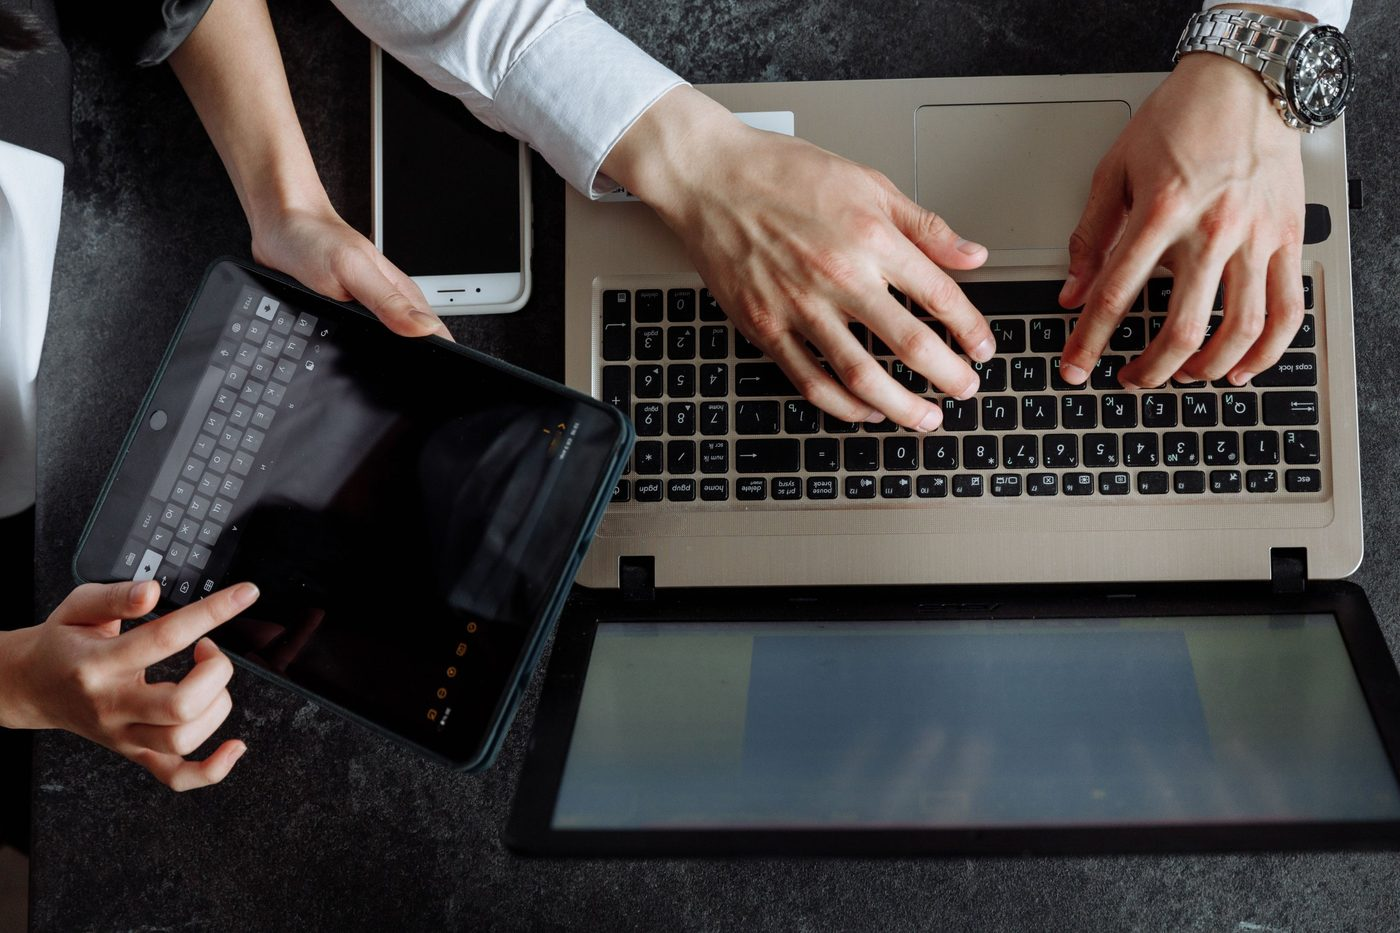
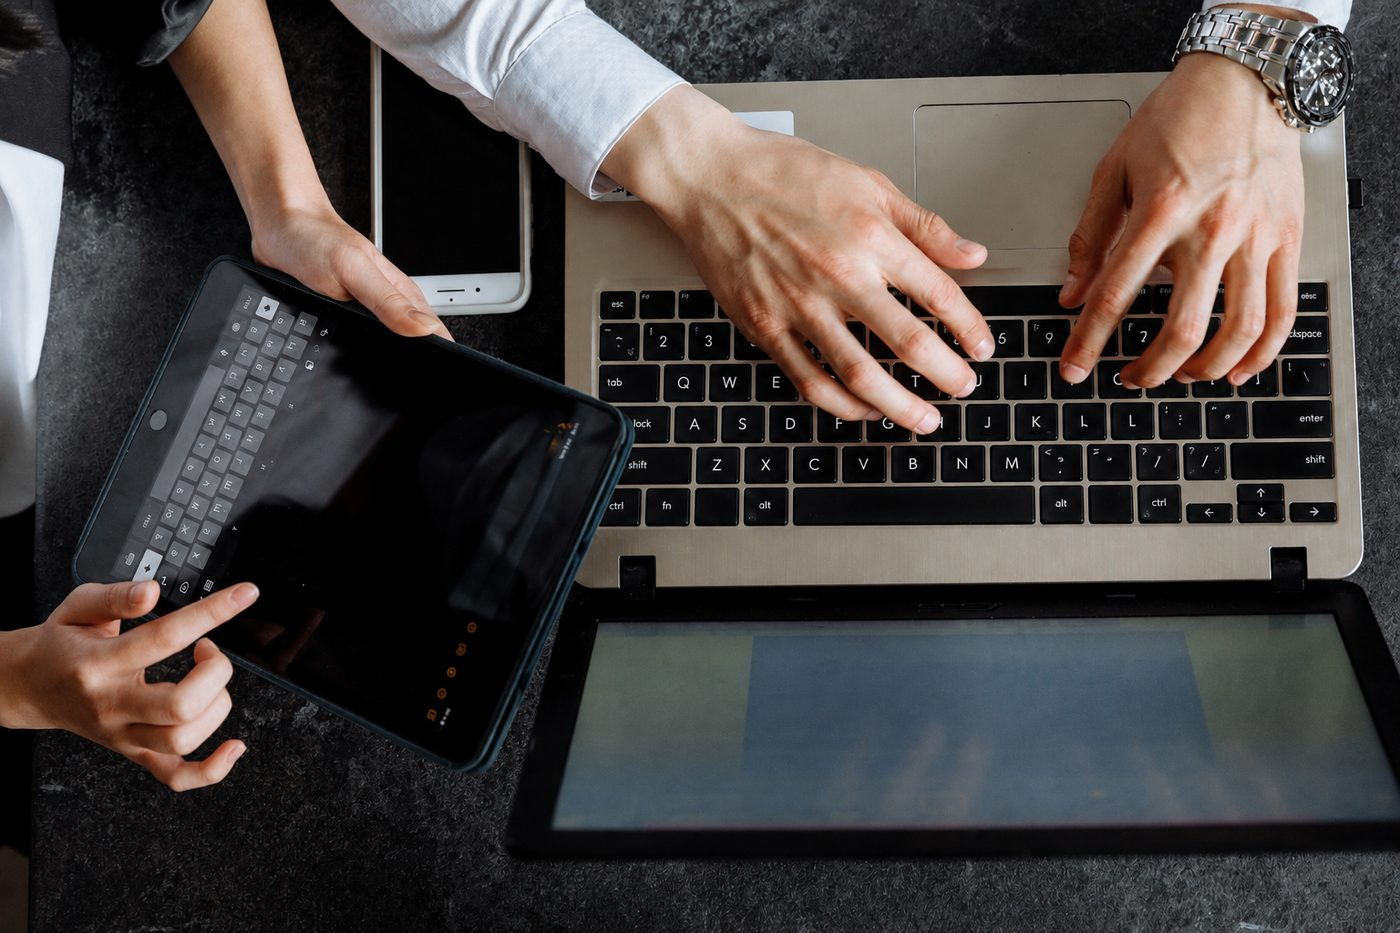
Add files via upload

diff --git a/index.html b/index.html
@@ -103,20 +103,6 @@
           </div>
         </div>
         <div class="header-right">
-          <div class="header-utils">
-            <ul>
-              <li class="button">
-                <a href="contact.html" class="btnset btnset-primary btnset-sm" type="button">견적문의</a>
-              </li>
-              <li class="allmenu">
-                <button class="btn-allmenu">
-                  <i class="ico-hamburger"></i>
-                  <i class="ico-hamburger"></i>
-                  <i class="ico-hamburger"></i>
-                </button>
-              </li>
-            </ul>
-          </div>
           <button class="btn-momenu">
             <i class="ico-hamburger"></i>
             <i class="ico-hamburger"></i>
@@ -251,19 +237,24 @@
           </div>
           <div class="why-preview-grid">
             <div class="why-preview-card reveal-up">
-              <img src="./resources/icons_custom/ico_cert.svg" alt="KS 난연 인증" />
-              <strong class="h5">KS · 난연 인증 자재</strong>
-              <p class="p2">KS 규격, 소방청 난연 2급 이상 인증을 확인한 자재만 선별 공급</p>
+              <img src="./resources/icons_custom/ico_cert.svg" alt="안정적인 품질과 인증" />
+              <strong class="h5">안정적인 품질과 인증</strong>
+              <p class="p2">하자율이 매우 낮은 뛰어난 품질과, 현장의 안전 기준을 충족하는 제품</p>
             </div>
             <div class="why-preview-card reveal-up">
-              <img src="./resources/icons_custom/ico_test.svg" alt="품질시험" />
-              <strong class="h5">입고 전수 품질시험</strong>
-              <p class="p2">자체 시험실에서 입고 전 품질시험을 거치고 성적서를 즉시 발급</p>
+              <img src="./resources/icons_custom/ico_price.svg" alt="합리적인 공급가" />
+              <strong class="h5">합리적인 공급가</strong>
+              <p class="p2">오랜 거래처와의 신뢰를 바탕으로 안정적인 매입 단가를 합리적인 공급가로 연결</p>
             </div>
             <div class="why-preview-card reveal-up">
-              <img src="./resources/icons_custom/ico_truck.svg" alt="전국 배송" />
-              <strong class="h5">전국 현장 직납</strong>
-              <p class="p2">대량 납품부터 긴급 소량 요청까지 전국 현장에 직접 배송</p>
+              <img src="./resources/icons_custom/ico_pipe.svg" alt="다양한 규격 보유" />
+              <strong class="h5">다양한 규격 보유</strong>
+              <p class="p2">다양한 규격을 취급하며, 현장에 필요한 규격을 폭넓게 상시 재고로 보유</p>
+            </div>
+            <div class="why-preview-card reveal-up">
+              <img src="./resources/icons_custom/ico_truck.svg" alt="전국 현장 납품" />
+              <strong class="h5">전국 현장 납품</strong>
+              <p class="p2">서울·대전·대구·부산 등 다양한 현장에 대량 납품부터 긴급 소량 요청까지 전국 현장에 납품</p>
             </div>
           </div>
           <div class="why-preview-more">

diff --git a/contact.html b/contact.html
@@ -103,20 +103,6 @@
           </div>
         </div>
         <div class="header-right">
-          <div class="header-utils">
-            <ul>
-              <li class="button">
-                <a href="contact.html" class="btnset btnset-primary btnset-sm" type="button">견적문의</a>
-              </li>
-              <li class="allmenu">
-                <button class="btn-allmenu">
-                  <i class="ico-hamburger"></i>
-                  <i class="ico-hamburger"></i>
-                  <i class="ico-hamburger"></i>
-                </button>
-              </li>
-            </ul>
-          </div>
           <button class="btn-momenu">
             <i class="ico-hamburger"></i>
             <i class="ico-hamburger"></i>
@@ -264,16 +250,10 @@
                   <div class="contact-direct-card">
                     <span class="cd-label mono">EMAIL</span>
                     <strong class="h4">isamwon@naver.com</strong>
-                    <span class="cd-sub">견적·자재 문의</span>
+                    <span class="cd-sub">자재 문의</span>
                   </div>
                 </div>
                 <p class="contact-direct-note">위 전화 또는 이메일로 직접 연락 주시면 신속히 답변드리겠습니다.</p>
-              </div>
-            </div>
-            <div class="location-extra">
-              <div class="location-extra-item">
-                <strong class="h5">방문 전 확인해주세요</strong>
-                <p class="p1">방문 전에 전화 또는 이메일로 일정을 조율해 주시기를 부탁드립니다.</p>
               </div>
             </div>
           </div>

diff --git a/products-cd.html b/products-cd.html
@@ -103,20 +103,6 @@
           </div>
         </div>
         <div class="header-right">
-          <div class="header-utils">
-            <ul>
-              <li class="button">
-                <a href="contact.html" class="btnset btnset-primary btnset-sm" type="button">견적문의</a>
-              </li>
-              <li class="allmenu">
-                <button class="btn-allmenu">
-                  <i class="ico-hamburger"></i>
-                  <i class="ico-hamburger"></i>
-                  <i class="ico-hamburger"></i>
-                </button>
-              </li>
-            </ul>
-          </div>
           <button class="btn-momenu">
             <i class="ico-hamburger"></i>
             <i class="ico-hamburger"></i>
@@ -321,7 +307,7 @@
                 </tbody>
               </table>
             </div>
-            <p class="spec-table-note">표에 없는 규격·품목은 <a href="contact.html#contact-section">견적 문의</a>를 통해 확인해 주세요.</p>
+            <p class="spec-table-note">표에 없는 규격·품목은 <a href="contact.html#contact-section">문의하기</a>를 통해 확인해 주세요.</p>
           </div>
         </div>
       </section>

diff --git a/products-elp.html b/products-elp.html
@@ -103,20 +103,6 @@
           </div>
         </div>
         <div class="header-right">
-          <div class="header-utils">
-            <ul>
-              <li class="button">
-                <a href="contact.html" class="btnset btnset-primary btnset-sm" type="button">견적문의</a>
-              </li>
-              <li class="allmenu">
-                <button class="btn-allmenu">
-                  <i class="ico-hamburger"></i>
-                  <i class="ico-hamburger"></i>
-                  <i class="ico-hamburger"></i>
-                </button>
-              </li>
-            </ul>
-          </div>
           <button class="btn-momenu">
             <i class="ico-hamburger"></i>
             <i class="ico-hamburger"></i>
@@ -301,7 +287,7 @@
                 </tbody>
               </table>
             </div>
-            <p class="spec-table-note">표에 없는 규격·품목은 <a href="contact.html#contact-section">견적 문의</a>를 통해 확인해 주세요.</p>
+            <p class="spec-table-note">표에 없는 규격·품목은 <a href="contact.html#contact-section">문의하기</a>를 통해 확인해 주세요.</p>
           </div>
         </div>
       </section>

diff --git a/products-etc.html b/products-etc.html
@@ -103,20 +103,6 @@
           </div>
         </div>
         <div class="header-right">
-          <div class="header-utils">
-            <ul>
-              <li class="button">
-                <a href="contact.html" class="btnset btnset-primary btnset-sm" type="button">견적문의</a>
-              </li>
-              <li class="allmenu">
-                <button class="btn-allmenu">
-                  <i class="ico-hamburger"></i>
-                  <i class="ico-hamburger"></i>
-                  <i class="ico-hamburger"></i>
-                </button>
-              </li>
-            </ul>
-          </div>
           <button class="btn-momenu">
             <i class="ico-hamburger"></i>
             <i class="ico-hamburger"></i>
@@ -281,7 +267,7 @@
                 </tbody>
               </table>
             </div>
-            <p class="spec-table-note">표에 없는 규격·품목은 <a href="contact.html#contact-section">견적 문의</a>를 통해 확인해 주세요.</p>
+            <p class="spec-table-note">표에 없는 규격·품목은 <a href="contact.html#contact-section">문의하기</a>를 통해 확인해 주세요.</p>
           </div>
         </div>
       </section>

diff --git a/products-hi.html b/products-hi.html
@@ -103,20 +103,6 @@
           </div>
         </div>
         <div class="header-right">
-          <div class="header-utils">
-            <ul>
-              <li class="button">
-                <a href="contact.html" class="btnset btnset-primary btnset-sm" type="button">견적문의</a>
-              </li>
-              <li class="allmenu">
-                <button class="btn-allmenu">
-                  <i class="ico-hamburger"></i>
-                  <i class="ico-hamburger"></i>
-                  <i class="ico-hamburger"></i>
-                </button>
-              </li>
-            </ul>
-          </div>
           <button class="btn-momenu">
             <i class="ico-hamburger"></i>
             <i class="ico-hamburger"></i>
@@ -291,7 +277,7 @@
                 </tbody>
               </table>
             </div>
-            <p class="spec-table-note">표에 없는 규격·품목은 <a href="contact.html#contact-section">견적 문의</a>를 통해 확인해 주세요.</p>
+            <p class="spec-table-note">표에 없는 규격·품목은 <a href="contact.html#contact-section">문의하기</a>를 통해 확인해 주세요.</p>
           </div>
         </div>
       </section>

diff --git a/products-waterproof.html b/products-waterproof.html
@@ -103,20 +103,6 @@
           </div>
         </div>
         <div class="header-right">
-          <div class="header-utils">
-            <ul>
-              <li class="button">
-                <a href="contact.html" class="btnset btnset-primary btnset-sm" type="button">견적문의</a>
-              </li>
-              <li class="allmenu">
-                <button class="btn-allmenu">
-                  <i class="ico-hamburger"></i>
-                  <i class="ico-hamburger"></i>
-                  <i class="ico-hamburger"></i>
-                </button>
-              </li>
-            </ul>
-          </div>
           <button class="btn-momenu">
             <i class="ico-hamburger"></i>
             <i class="ico-hamburger"></i>
@@ -333,7 +319,7 @@
                 </tbody>
               </table>
             </div>
-            <p class="spec-table-note">표에 없는 규격·품목은 <a href="contact.html#contact-section">견적 문의</a>를 통해 확인해 주세요.</p>
+            <p class="spec-table-note">표에 없는 규격·품목은 <a href="contact.html#contact-section">문의하기</a>를 통해 확인해 주세요.</p>
           </div>
         </div>
       </section>

diff --git a/products.html b/products.html
@@ -103,20 +103,6 @@
           </div>
         </div>
         <div class="header-right">
-          <div class="header-utils">
-            <ul>
-              <li class="button">
-                <a href="contact.html" class="btnset btnset-primary btnset-sm" type="button">견적문의</a>
-              </li>
-              <li class="allmenu">
-                <button class="btn-allmenu">
-                  <i class="ico-hamburger"></i>
-                  <i class="ico-hamburger"></i>
-                  <i class="ico-hamburger"></i>
-                </button>
-              </li>
-            </ul>
-          </div>
           <button class="btn-momenu">
             <i class="ico-hamburger"></i>
             <i class="ico-hamburger"></i>
@@ -296,7 +282,7 @@
                 </tbody>
               </table>
             </div>
-            <p class="spec-table-note">표에 없는 규격·품목은 <a href="contact.html#contact-section">견적 문의</a>를 통해 확인해 주세요.</p>
+            <p class="spec-table-note">표에 없는 규격·품목은 <a href="contact.html#contact-section">문의하기</a>를 통해 확인해 주세요.</p>
           </div>
         </div>
       </section>

diff --git a/resources/css/site-overrides.css b/resources/css/site-overrides.css
@@ -415,31 +415,6 @@
   }
 }
 
-/* 오시는 길: 방문 안내 추가 정보 (콘텐츠 보강) */
-.location-extra {
-  display: grid;
-  grid-template-columns: 1fr;
-  gap: 2rem;
-  margin-top: 4rem;
-  padding-top: 4rem;
-  border-top: 1px solid rgba(var(--primary-rgb), 0.15);
-}
-.location-extra-item strong {
-  display: block;
-  color: var(--secondary);
-  margin-bottom: 1rem;
-}
-.location-extra-item p {
-  font-size: 1.45rem;
-  color: #54648A;
-  line-height: 1.7;
-}
-@media (max-width: 992px) {
-  .location-extra {
-    grid-template-columns: 1fr;
-  }
-}
-
 /* ===== 로고 색 반전 해제 =====
    원본 템플릿은 헤더가 사진 위에 투명하게 떠 있을 때 로고를 흰색으로
    반전시켰다가, 마우스를 올리면 원래 색으로 되돌리는 효과가 있었습니다.
@@ -522,7 +497,7 @@
 }
 .why-preview-grid {
   display: grid;
-  grid-template-columns: repeat(3, 1fr);
+  grid-template-columns: repeat(4, 1fr);
   gap: 2.4rem;
   margin-top: 4rem;
 }

diff --git a/about-greeting.html b/about-greeting.html
@@ -103,20 +103,6 @@
           </div>
         </div>
         <div class="header-right">
-          <div class="header-utils">
-            <ul>
-              <li class="button">
-                <a href="contact.html" class="btnset btnset-primary btnset-sm" type="button">견적문의</a>
-              </li>
-              <li class="allmenu">
-                <button class="btn-allmenu">
-                  <i class="ico-hamburger"></i>
-                  <i class="ico-hamburger"></i>
-                  <i class="ico-hamburger"></i>
-                </button>
-              </li>
-            </ul>
-          </div>
           <button class="btn-momenu">
             <i class="ico-hamburger"></i>
             <i class="ico-hamburger"></i>

diff --git a/about-history.html b/about-history.html
@@ -103,20 +103,6 @@
           </div>
         </div>
         <div class="header-right">
-          <div class="header-utils">
-            <ul>
-              <li class="button">
-                <a href="contact.html" class="btnset btnset-primary btnset-sm" type="button">견적문의</a>
-              </li>
-              <li class="allmenu">
-                <button class="btn-allmenu">
-                  <i class="ico-hamburger"></i>
-                  <i class="ico-hamburger"></i>
-                  <i class="ico-hamburger"></i>
-                </button>
-              </li>
-            </ul>
-          </div>
           <button class="btn-momenu">
             <i class="ico-hamburger"></i>
             <i class="ico-hamburger"></i>

diff --git a/about.html b/about.html
@@ -103,20 +103,6 @@
           </div>
         </div>
         <div class="header-right">
-          <div class="header-utils">
-            <ul>
-              <li class="button">
-                <a href="contact.html" class="btnset btnset-primary btnset-sm" type="button">견적문의</a>
-              </li>
-              <li class="allmenu">
-                <button class="btn-allmenu">
-                  <i class="ico-hamburger"></i>
-                  <i class="ico-hamburger"></i>
-                  <i class="ico-hamburger"></i>
-                </button>
-              </li>
-            </ul>
-          </div>
           <button class="btn-momenu">
             <i class="ico-hamburger"></i>
             <i class="ico-hamburger"></i>
